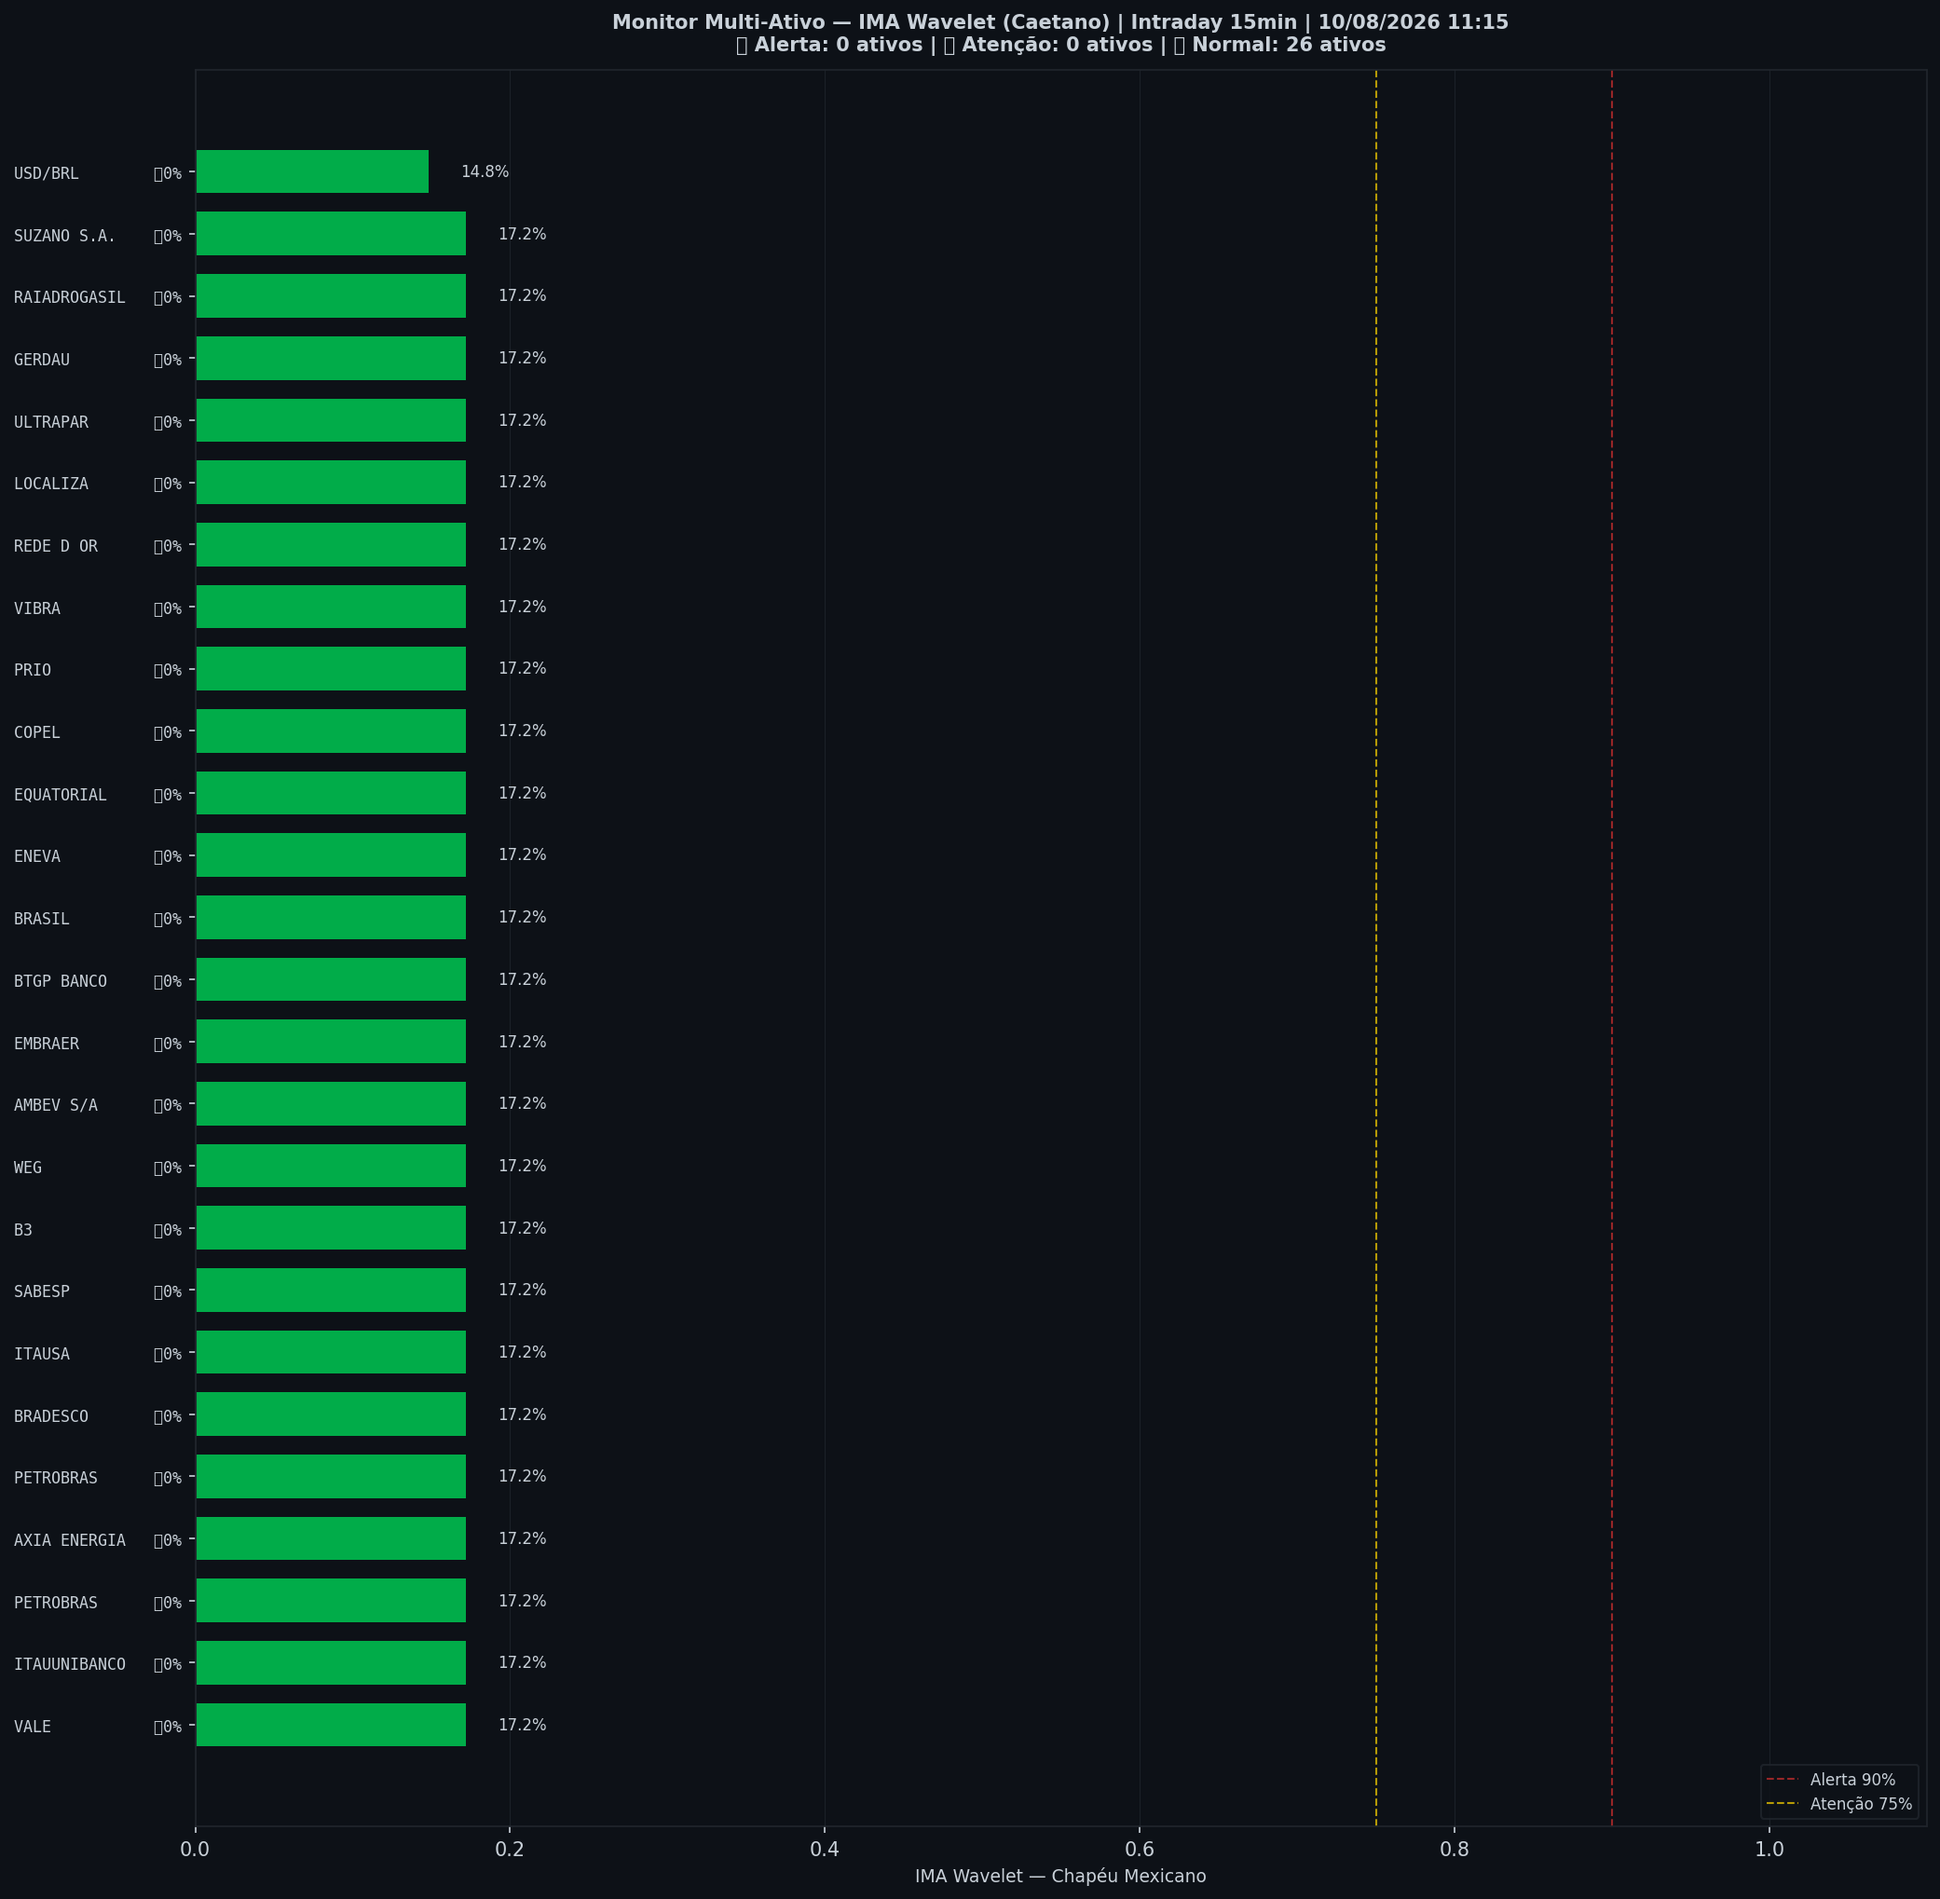
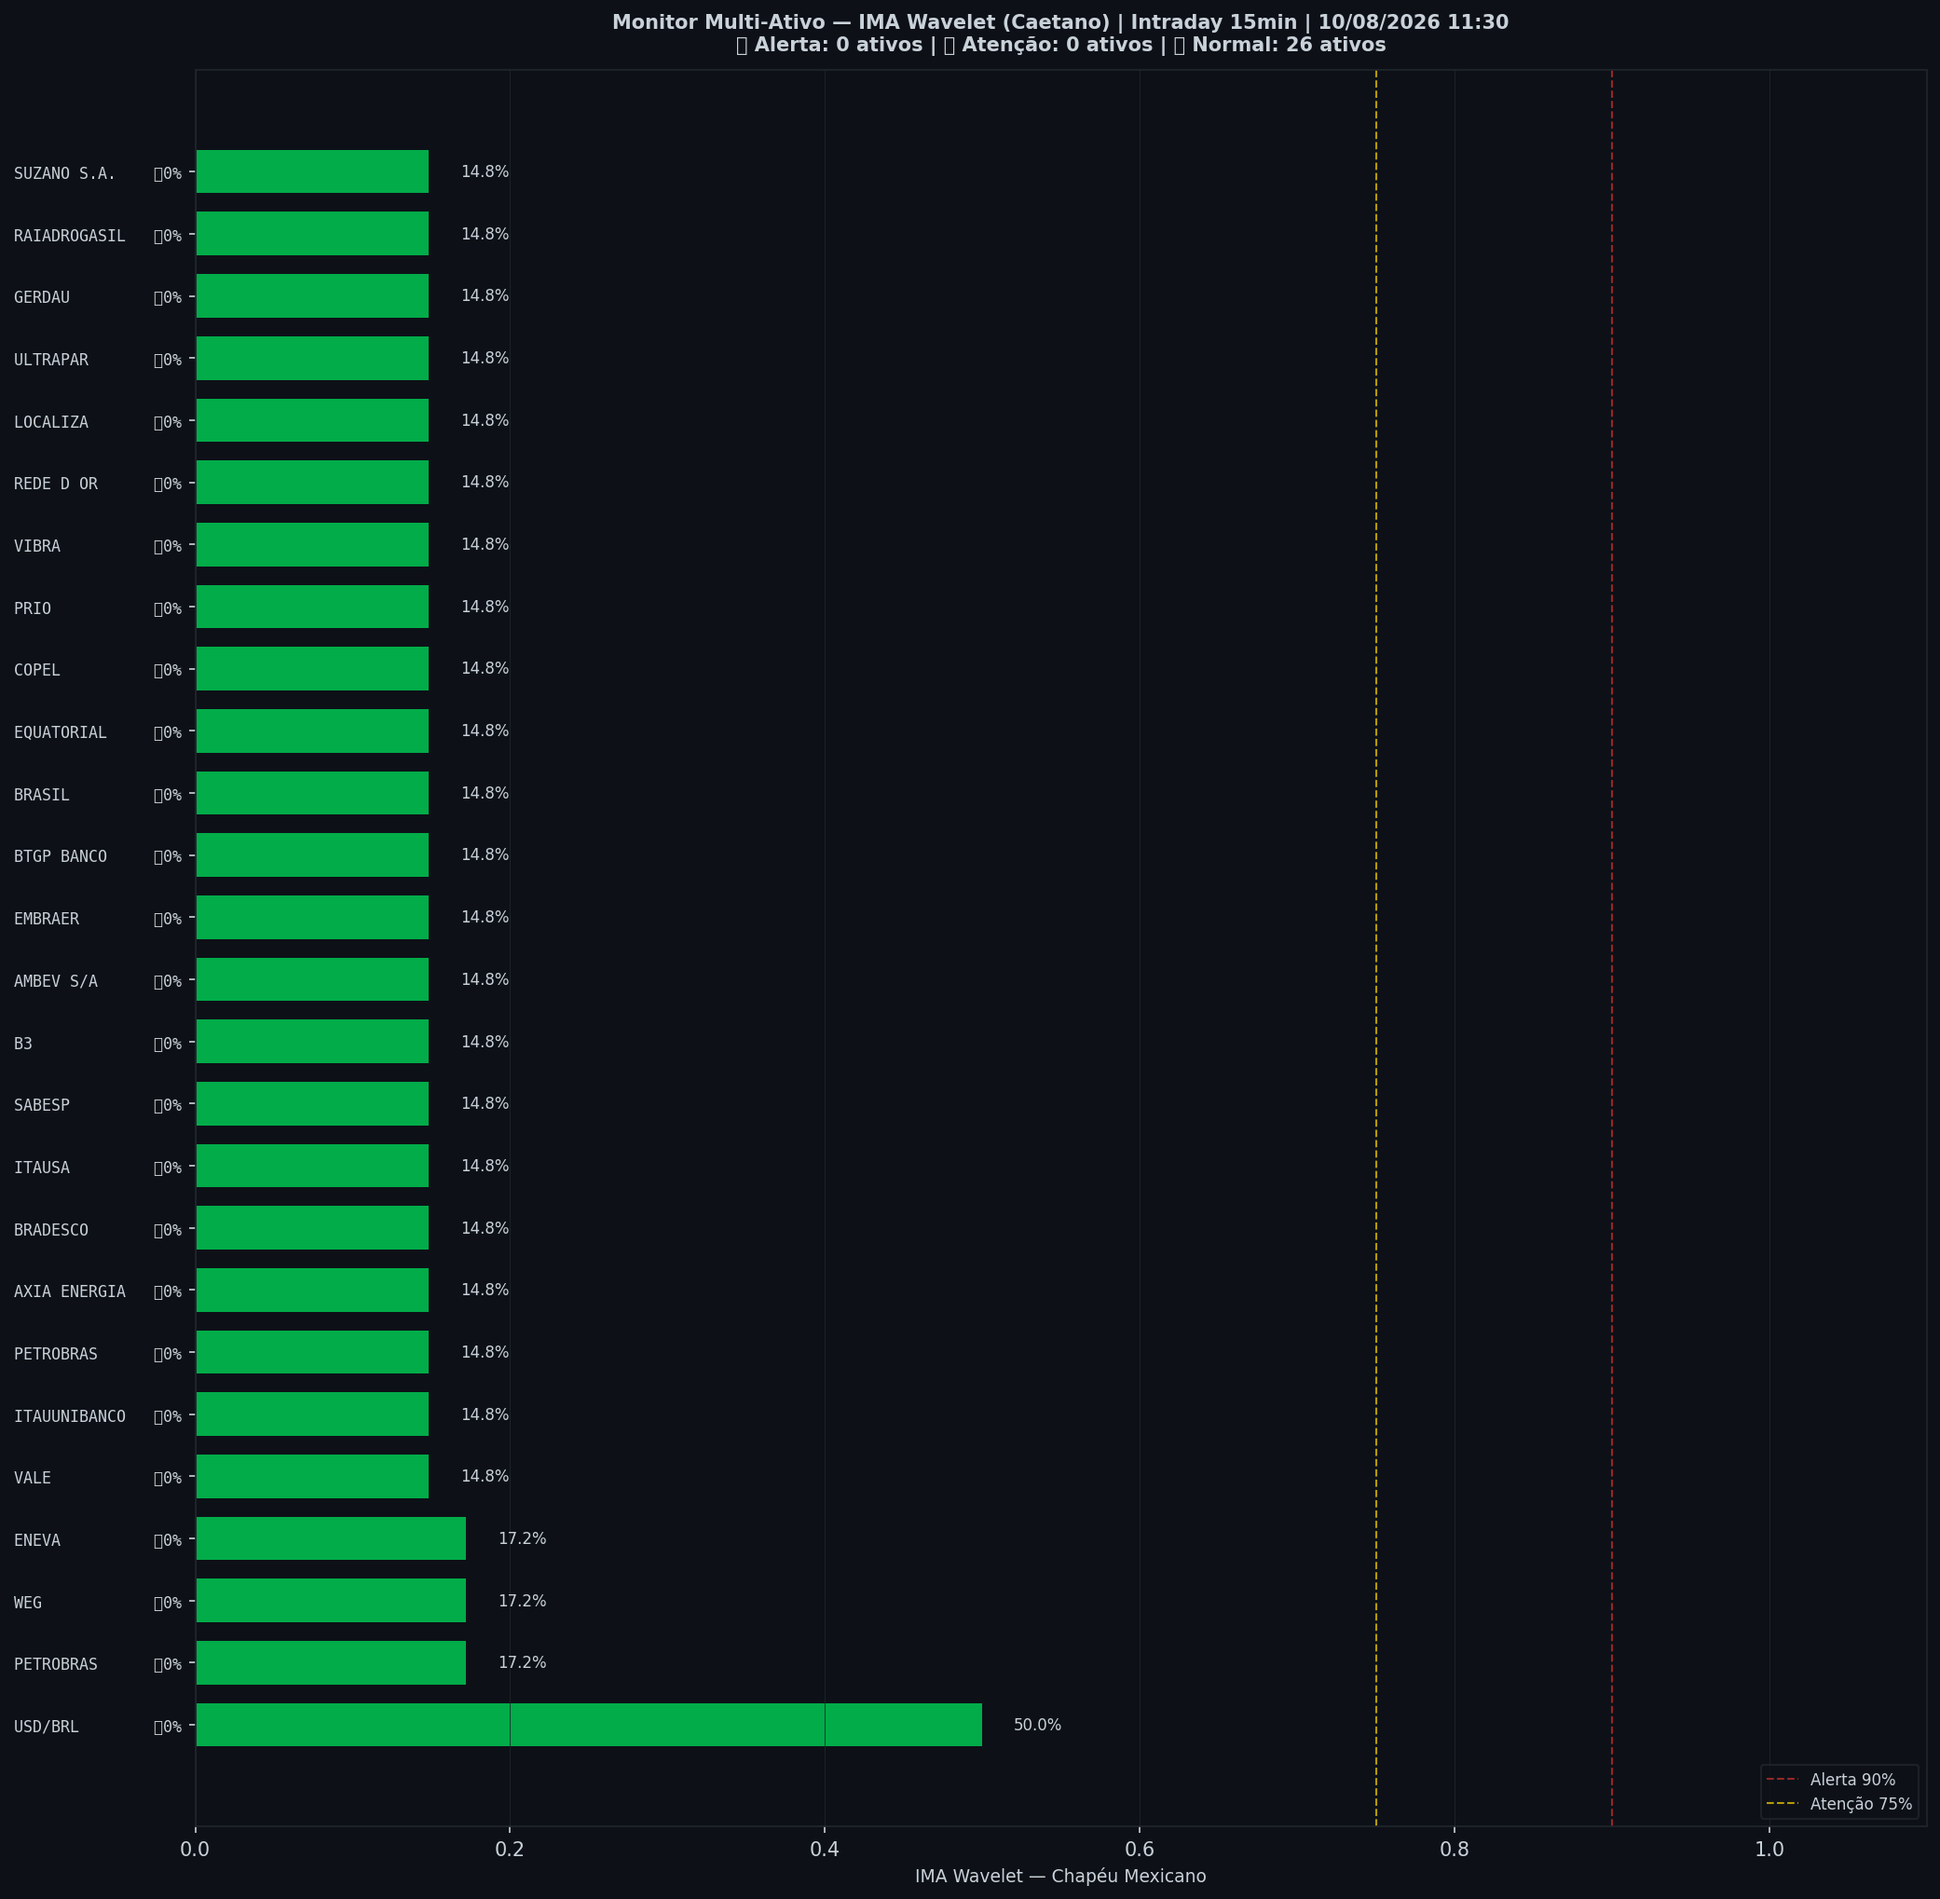
🤖 Auto: Sinal 10/08/2026 11:30

diff --git a/content/intraday/2026-08-10.md b/content/intraday/2026-08-10.md
@@ -1,20 +1,20 @@
 ---
-title: "🟢 Intraday 10/08/2026 10:30 BRT — VERDE"
+title: "🟢 Intraday 10/08/2026 10:45 BRT — VERDE"
 date: 2026-08-10
 tags: [intraday]
 ---
 
-> [!success] 🟢 **VERDE** — Risco 0% · ＝ +0 p.p. vs leitura anterior
+> [!success] 🟢 **VERDE** — Risco 1% · ▲ +1 p.p. vs leitura anterior
 > `░░░░░░░░░░░░░░░░░░░░`
 > Mercado sem sinais relevantes de estresse.
 
 
 | Indicador | Valor |
 |---|---|
-| 🔴 ζ Crash — severidade da queda em curso | **0%** |
+| 🔴 ζ Crash — severidade da queda em curso | **1%** |
 | 🔵 ζ Entrada — estrutura de fundo | 98% |
 | 🫧 LPPL DS-Confidence | 0% |
-| 📊 Ibovespa | 172.543 pts |
+| 📊 Ibovespa | 171.801 pts |
 
 ![Gráfico do sinal](../graficos/sinal_intraday.png)
 
@@ -22,6 +22,7 @@ tags: [intraday]
 
 | Data | Zona | Risco | IMA Crash | Entrada | LPPL |
 |---|---|---|---|---|---|
+| 2026-08-10 10:45 | 🟢 VERDE | **1%** | 1% | 98% | 0% |
 | 2026-08-10 10:30 | 🟢 VERDE | **0%** | 0% | 98% | 0% |
 | 2026-08-10 10:15 | 🟢 VERDE | **0%** | 0% | 99% | 0% |
 | 2026-08-10 10:00 | 🟢 VERDE | **0%** | 0% | 98% | 0% |
@@ -51,7 +52,6 @@ tags: [intraday]
 | 2026-08-07 11:00 | 🟢 VERDE | **2%** | 2% | 72% | 0% |
 | 2026-08-07 10:45 | 🟢 VERDE | **2%** | 2% | 93% | 0% |
 | 2026-08-07 10:30 | 🟢 VERDE | **0%** | 0% | 93% | 0% |
-| 2026-08-07 10:15 | 🟢 VERDE | **0%** | 0% | 93% | 0% |
 
 ## Monitor Multi-Ativo
 
@@ -59,36 +59,36 @@ tags: [intraday]
 
 | Zona | Ativo | Setor | IMA Crash | IMA Entrada |
 |---|---|---|---|---|
-| 🟢 | **VALE** | Mineração | 17.2% | 0.0% |
-| 🟢 | **ITAUUNIBANCO** | Financeiro | 17.2% | 0.0% |
+| 🟢 | **USD/BRL** | Câmbio | 50.0% | 0.0% |
 | 🟢 | **PETROBRAS** | Petróleo | 17.2% | 0.0% |
-| 🟢 | **AXIA ENERGIA** | Energia | 17.2% | 0.0% |
-| 🟢 | **PETROBRAS** | Petróleo | 17.2% | 0.0% |
-| 🟢 | **BRADESCO** | Financeiro | 17.2% | 0.0% |
-| 🟢 | **ITAUSA** | Financeiro | 17.2% | 0.0% |
-| 🟢 | **SABESP** | Saneamento | 17.2% | 0.0% |
-| 🟢 | **B3** | Financeiro | 17.2% | 0.0% |
 | 🟢 | **WEG** | Industrial | 17.2% | 0.0% |
-| 🟢 | **AMBEV S/A** | Consumo | 17.2% | 0.0% |
-| 🟢 | **EMBRAER** | Outros | 17.2% | 0.0% |
-| 🟢 | **BTGP BANCO** | Financeiro | 17.2% | 0.0% |
-| 🟢 | **BRASIL** | Financeiro | 17.2% | 0.0% |
 | 🟢 | **ENEVA** | Energia | 17.2% | 0.0% |
-| 🟢 | **EQUATORIAL** | Energia | 17.2% | 0.0% |
-| 🟢 | **COPEL** | Energia | 17.2% | 0.0% |
-| 🟢 | **PRIO** | Petróleo | 17.2% | 0.0% |
-| 🟢 | **VIBRA** | Energia | 17.2% | 0.0% |
-| 🟢 | **REDE D OR** | Saúde | 17.2% | 0.0% |
-| 🟢 | **LOCALIZA** | Aluguel | 17.2% | 0.0% |
-| 🟢 | **ULTRAPAR** | Outros | 17.2% | 0.0% |
-| 🟢 | **GERDAU** | Siderurgia | 17.2% | 0.0% |
-| 🟢 | **RAIADROGASIL** | Outros | 17.2% | 0.0% |
-| 🟢 | **SUZANO S.A.** | Papel/Celulose | 17.2% | 0.0% |
-| 🟢 | **USD/BRL** | Câmbio | 14.8% | 0.0% |
+| 🟢 | **VALE** | Mineração | 14.8% | 0.0% |
+| 🟢 | **ITAUUNIBANCO** | Financeiro | 14.8% | 0.0% |
+| 🟢 | **PETROBRAS** | Petróleo | 14.8% | 0.0% |
+| 🟢 | **AXIA ENERGIA** | Energia | 14.8% | 0.0% |
+| 🟢 | **BRADESCO** | Financeiro | 14.8% | 0.0% |
+| 🟢 | **ITAUSA** | Financeiro | 14.8% | 0.0% |
+| 🟢 | **SABESP** | Saneamento | 14.8% | 0.0% |
+| 🟢 | **B3** | Financeiro | 14.8% | 0.0% |
+| 🟢 | **AMBEV S/A** | Consumo | 14.8% | 0.0% |
+| 🟢 | **EMBRAER** | Outros | 14.8% | 0.0% |
+| 🟢 | **BTGP BANCO** | Financeiro | 14.8% | 0.0% |
+| 🟢 | **BRASIL** | Financeiro | 14.8% | 0.0% |
+| 🟢 | **EQUATORIAL** | Energia | 14.8% | 0.0% |
+| 🟢 | **COPEL** | Energia | 14.8% | 0.0% |
+| 🟢 | **PRIO** | Petróleo | 14.8% | 0.0% |
+| 🟢 | **VIBRA** | Energia | 14.8% | 0.0% |
+| 🟢 | **REDE D OR** | Saúde | 14.8% | 0.0% |
+| 🟢 | **LOCALIZA** | Aluguel | 14.8% | 0.0% |
+| 🟢 | **ULTRAPAR** | Outros | 14.8% | 0.0% |
+| 🟢 | **GERDAU** | Siderurgia | 14.8% | 0.0% |
+| 🟢 | **RAIADROGASIL** | Outros | 14.8% | 0.0% |
+| 🟢 | **SUZANO S.A.** | Papel/Celulose | 14.8% | 0.0% |
 
 ![Monitor multi-ativo](../graficos/multi_intraday.png)
 
-*Página atualizada em 10/08/2026 11:15 BRT (leitura da barra de 2026-08-10 10:30 BRT).*
+*Página atualizada em 10/08/2026 11:30 BRT (leitura da barra de 2026-08-10 10:45 BRT).*
 
 > [!info]- Como interpretar (clique para expandir)
 > - **ζ Crash**: fração dos coeficientes wavelet acima do corte (Caetano & Yoneyama 2009). Escala absoluta: ζ=0,90 = 90% dos coeficientes anômalos — historicamente, quedas com ζ≥0,90 foram mais fundas e mais longas. **Mede a severidade do movimento em curso, não prevê o início da queda.**

diff --git a/content/index.md b/content/index.md
@@ -8,19 +8,19 @@ tags: [home]
 
 Monitoramento diário e intraday do Ibovespa — **IMA Wavelet** (Prof. Marco Antonio Leonel Caetano, ITA/INSPER) + **LPPL DS-Confidence** (Prof. Didier Sornette, ETH-Zurich).
 
-*Última atualização: 10/08/2026 11:15 BRT · ^BVSP · Intraday 15min · v4*
+*Última atualização: 10/08/2026 11:30 BRT · ^BVSP · Intraday 15min · v4*
 
-> [!success] 🟢 **VERDE** — Risco 0% · ＝ +0 p.p. vs leitura anterior
+> [!success] 🟢 **VERDE** — Risco 1% · ▲ +1 p.p. vs leitura anterior
 > `░░░░░░░░░░░░░░░░░░░░`
 > Mercado sem sinais relevantes de estresse.
 
 
 | Indicador | Valor |
 |---|---|
-| 🔴 ζ Crash — severidade da queda em curso | **0%** |
+| 🔴 ζ Crash — severidade da queda em curso | **1%** |
 | 🔵 ζ Entrada — estrutura de fundo | 98% |
 | 🫧 LPPL DS-Confidence | 0% |
-| 📊 Ibovespa | 172.543 pts |
+| 📊 Ibovespa | 171.801 pts |
 
 **Multi-ativo:** 0% em tensão (0🔴 0🟡 de 26 ativos)
 
@@ -32,7 +32,7 @@ Monitoramento diário e intraday do Ibovespa — **IMA Wavelet** (Prof. Marco An
 
 | Data | Zona | Risco | IMA | LPPL |
 |---|---|---|---|---|
-| [10 Aug 2026](diario/2026-08-10) | 🟢 VERDE | **0%** | 0% | 0% |
+| [10 Aug 2026](diario/2026-08-10) | 🟢 VERDE | **1%** | 1% | 0% |
 | [07 Aug 2026](diario/2026-08-07) | 🟢 VERDE | **0%** | 0% | 0% |
 
 ## Navegação

diff --git a/content/historico.md b/content/historico.md
@@ -7,6 +7,7 @@ tags: [historico]
 
 | Data | Modo | Zona | Risco | IMA | LPPL |
 |---|---|---|---|---|---|
+| 2026-08-10 10:45 | intraday | 🟢 VERDE | 1% | 1% | 0% |
 | 2026-08-10 10:30 | intraday | 🟢 VERDE | 0% | 0% | 0% |
 | 2026-08-10 10:15 | intraday | 🟢 VERDE | 0% | 0% | 0% |
 | 2026-08-10 10:00 | intraday | 🟢 VERDE | 0% | 0% | 0% |
